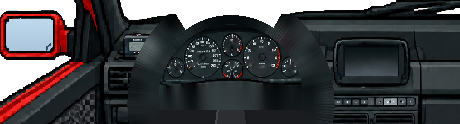
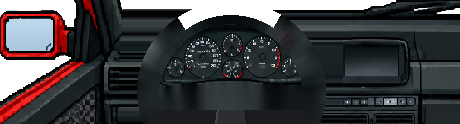
Gráficos MÁXIMO: carros em resolução cheia, distância de desenho maior; cabeça do motorista acompanha a derrapagem; volante do Unão sem o disco antigo; facho com menos desenho ao longe; versão 0.9.1
Claude-Session: https://claude.ai/code/session_01MLD9VR7gkmY4w6a9beZcp6

diff --git a/src/render3d.ts b/src/render3d.ts
@@ -3,7 +3,7 @@ import { drawSmoke } from './smoke';
 import { drawCrisp } from './crisp';
 import { CAM_DEPTH, CAM_H, CAR_W, DRAW_DIST, POLICE_W, SEG_LEN, TRUCK_W } from './config';
 import { CARS, drawCar } from './cars';
-import { lowFx } from './perf';
+import { lowFx, fxMode } from './perf';
 import { adsReady } from './billboards';
 import { beginLights, finishNight, mirrorGlare, mirrorWash, pushFacade, pushReflector, pushStreetLight, setLightClip, type Pass, type RoadPt } from './nightlight';
 import { trafficLook, type Officer, type Race, type TrafficCar } from './race';
@@ -282,7 +282,9 @@ export function renderRoad(c: CanvasRenderingContext2D, r: Race, view0: Viewport
   // altura da câmera: o chão logo abaixo do motorista
   // (no salto, o chão fica lá embaixo: a câmera sobe com o carro)
   const playerY = lerp(base.p1.world.y, base.p2.world.y, basePct) + r.lift;
-  const end = Math.min(segs.length, base.index + (lowFx() ? Math.round(DRAW_DIST * 0.65) : DRAW_DIST));
+  // distância de desenho: menor no econômico, bem maior no MÁXIMO
+  const far = fxMode() === 'alto' ? 1.4 : lowFx() ? 0.65 : 1;
+  const end = Math.min(segs.length, base.index + Math.round(DRAW_DIST * far));
   const ground = dither(c, r.theme.ground[0], r.theme.ground[1]);
   // chão por baixo de tudo: em vales, parte da tela não é coberta por nenhum segmento
   c.fillStyle = ground;
@@ -340,7 +342,7 @@ export function renderRoad(c: CanvasRenderingContext2D, r: Race, view0: Viewport
     c.globalAlpha = 1 - fk;
     for (const sp of s.sprites) {
       // objetos pequenos e distantes só poluem o horizonte
-      if (dist > (sp.kind === 'post' || sp.kind === 'rail' ? 90 : FAR_KINDS.includes(sp.kind) ? 400 : 170)) continue;
+      if (dist > (sp.kind === 'post' || sp.kind === 'rail' ? 90 : FAR_KINDS.includes(sp.kind) ? 400 : 170) * Math.max(1, far * 0.85)) continue;
       const def = SPRITES[sp.kind];
       const sc = s.p1.screen.scale;
       const sw = def.w * sc * vp.K;

diff --git a/src/race.ts b/src/race.ts
@@ -188,6 +188,7 @@ export class Race {
   slip = 0; // derrapagem (0 = com aderência, 1 = escorregando)
   spin = 0; // rodas patinando na arrancada
   balance = 0; // equilíbrio do carro: < 0 sai de frente, > 0 a traseira solta
+  head = 0; // cabeça do motorista olhando para onde o carro vai na derrapagem (rad, só a vista)
   yaw = 0; // quanto o carro está "atravessado" (rad, + = virado para dentro da curva à direita)
   drift = 0; // ângulo de derrapagem (rad, + = frente virada para a direita); passou de ~32°, roda
   private spinOut = 0; // animação de rodada
@@ -630,6 +631,10 @@ export class Race {
       this.speed -= max * 0.5 * dt;
     }
     this.yaw = lerp(this.yaw, yawTarget, Math.min(1, dt * (this.spinOut > 0 ? 7 : 12)));
+    // na derrapagem o motorista vira a cabeça de leve para o lado da saída da curva, com um pouco
+    // de atraso (movimento suave); rodando, não acompanha
+    const lookTarget = this.spinOut > 0 || Math.abs(this.drift) < 0.04 ? 0 : clamp(-this.drift * 0.35, -0.07, 0.07);
+    this.head = lerp(this.head, lookTarget, Math.min(1, dt * 2.5));
 
     // ---- fora da pista ----
     this.shake = 0;

diff --git a/src/main.ts b/src/main.ts
@@ -257,7 +257,9 @@ function resize() {
   // resolução de desenho: acompanha os pixels reais da tela (pista, carros e objetos mais
   // definidos); no econômico fica em 2
   const dev = scale * (window.devicePixelRatio || 1);
-  setRes(dev >= 3.5 && !lowFx() ? 4 : 2);
+  // (no MÁXIMO usa 4 também em monitores comuns de computador: carros e cenário bem definidos;
+  // no automático só em telas densas, e se o aparelho não der conta volta para 2 sozinho)
+  setRes(!lowFx() && dev >= (fxMode() === 'alto' ? 1.4 : 3.5) ? 4 : 2);
   canvas.width = view.w * RES;
   canvas.height = view.h * RES;
   ctx.setTransform(RES, 0, 0, RES, 0, 0);
@@ -382,7 +384,7 @@ document.querySelectorAll<HTMLButtonElement>('#settings [data-set]').forEach((b)
       if (race) race.showGhost = ghostOn();
       break;
     case 'hints': savePrefs({ hints: !prefs.hints }); break;
-    case 'fx': setFxMode(({ auto: 'alto', alto: 'eco', eco: 'auto' } as const)[fxMode()]); break;
+    case 'fx': setFxMode(({ auto: 'alto', alto: 'eco', eco: 'auto' } as const)[fxMode()]); resize(); break;
   }
   settingsLabels();
 }));

diff --git a/src/cars.ts b/src/cars.ts
@@ -1,3 +1,4 @@
+import { fxMode } from './perf';
 import { pushCarLights } from './nightlight';
 import { drawPlate, type Plate } from './plates';
 import { drawCrisp } from './crisp';
@@ -640,7 +641,8 @@ function glow(c: CanvasRenderingContext2D, x: number, y: number, w: number, rgb:
 
 // carros grandes na tela são rasterizados na resolução real (RES pixels por pixel do jogo);
 // os pequenos e distantes, na do jogo (economiza memória e tempo na corrida)
-const hiRes = (w: number) => (w >= 20 ? RES : Math.max(1, RES / 2)); // os longe, na metade (economiza memória)
+// os longe na metade da resolução (economiza memória), menos no gráfico MÁXIMO
+const hiRes = (w: number) => (w >= 20 || fxMode() === 'alto' ? RES : Math.max(1, RES / 2));
 
 // Carro visto de trás (ou de frente, se vier na contramão). (x, y) = centro da base.
 // Trânsito e viatura em pixel art (tools/art/traffic.py); a cor de cada carro vem da máscara

diff --git a/src/nightlight.ts b/src/nightlight.ts
@@ -182,7 +182,8 @@ function beamShape(g: CanvasRenderingContext2D, w: number, cx: number, seen: num
   }
   for (let k = 0; k + 1 < road.length; k++) {
     // longe, dois trechos por vez (o facho é largo e suave ali: menos desenho por quadro)
-    const step = fd(road[k].d) < 0.7 && k + 2 < road.length && road[k + 2].d - road[k].d <= 4 ? 2 : 1;
+    const fk = fd(road[k].d);
+    const step = fk < 0.4 && k + 3 < road.length && road[k + 3].d - road[k].d <= 6 ? 3 : fk < 0.75 && k + 2 < road.length && road[k + 2].d - road[k].d <= 4 ? 2 : 1;
     const p = road[k], q = road[k + step];
     k += step - 1;
     if (fd(p.d) < 0) break;

diff --git a/src/cockpit.ts b/src/cockpit.ts
@@ -1706,7 +1706,11 @@ function renderCockpitInner(c: CanvasRenderingContext2D, r: Race, lives: number,
   const art = COCKPIT_ART[r.car.dash];
   ART_TOP = 100 + (art?.dy ?? 0);
   // nas cabines desenhadas, os vidros laterais vão abaixo do painel: a estrada desce até o fim
+  // a cabeça do motorista: só a vista pelo para-brisa gira (a cabine não se mexe nem é cortada)
+  const yaw0 = r.yaw;
+  r.yaw += r.head;
   renderRoad(c, r, art ? { ...vp, h: view.h - vp.y, dash: ART_TOP } : vp);
+  r.yaw = yaw0;
   weather(c, r, vp, dt);
   drawWipers(c, r, vp, dt, dashTopFn(art), coreX());
   drawGlassMarks(c, r, vp);

diff --git a/tools/ref/uno_rim_fix.py b/tools/ref/uno_rim_fix.py
@@ -1,0 +1,22 @@
+"""Unão Turbo: apaga o disco do volante antigo que sobrava por fora do aro do jogo
+(br-uno-dash.png). Cada linha, fora da elipse do aro (95 x 90,3 em 231,5/91,2), recebe o painel
+limpo logo além do disco (colunas 121-122 à esquerda, 341-342 à direita). Rodar uma vez sobre a
+arte importada: python3 tools/ref/uno_rim_fix.py src/assets/cockpit/br-uno-dash.png
+"""
+import sys
+import numpy as np
+from PIL import Image
+
+P = sys.argv[1]
+a = np.array(Image.open(P).convert('RGBA'))
+H, W = a.shape[:2]
+cx, cy, rx, ry = 231.5, 91.2, 95.0, 90.3
+L, R = 122, 341
+out = a.copy()
+for y in range(H):
+    for x in range(L + 1, R):
+        if np.hypot((x + 0.5 - cx) / rx, (y + 0.5 - cy) / ry) <= 0.995:
+            continue
+        s1, s2 = (a[y, L], a[y, L - 1]) if x < cx else (a[y, R], a[y, R + 1])
+        out[y, x] = s1 if s1[3] == 0 else ((s1.astype(int) + s2.astype(int)) // 2).astype(np.uint8)
+Image.fromarray(out, 'RGBA').save(P)
